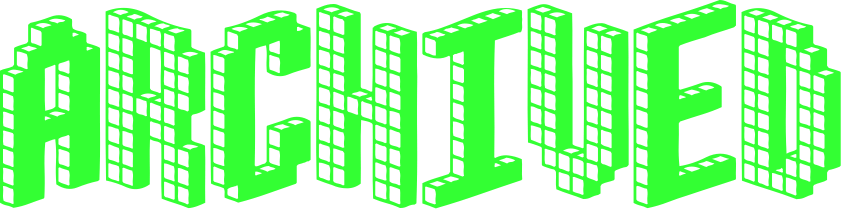
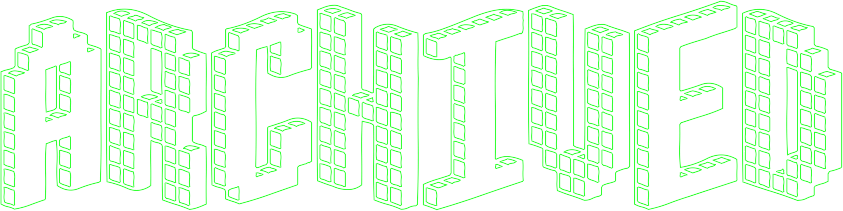
Site updated: 2023-08-12 09:48:10

diff --git a/about/index.html b/about/index.html
@@ -52,7 +52,7 @@
     </div>
     <hr />
   </div>
-  <div class="post-content"><p><img src="/img/theme_archived.jpg" alt="机长梦话"></p>
+  <div class="post-content"><p><img src="/img/theme_archived.png" alt="机长梦话"></p>
 <h2 id="不会拍电影的程序员不是好机长。"><a href="#不会拍电影的程序员不是好机长。" class="headerlink" title="不会拍电影的程序员不是好机长。"></a>不会拍电影的程序员不是好机长。</h2></div>
 </div>
  <div class="footer" id="footer">
